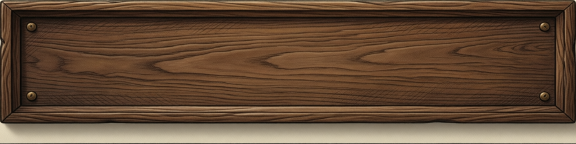
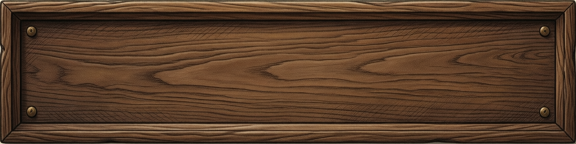
art(missives): trim the plaque's lit strip; quote the plaque row's notes
A table's trim cell narrows a render's crop by what the ground floods
left (the plaque kept a pale strip under its edge). The plaque row's
unquoted comma split it into an extra column for every CSV reader.

diff --git a/assets/flux/install_map_art.py b/assets/flux/install_map_art.py
@@ -332,6 +332,19 @@ def alpha_box(w: int, h: int, rgba: bytearray) -> tuple:
     return (0, 0, w, h) if x1 < 0 else (x0, y0, x1 + 1, y1 + 1)
 
 
+def trim_box(box: tuple, trim: str) -> tuple:
+    """A render's crop narrowed by a table's `trim` cell, "left|top|right|bottom"
+    in source px: what the ground floods left behind that is still ground (the
+    plaque's lit strip under its edge); empty keeps the box."""
+    if not trim.strip():
+        return box
+    l, t, r, b = (int(v) for v in trim.split("|"))
+    x0, y0, x1, y1 = box
+    if x1 - x0 <= l + r or y1 - y0 <= t + b:
+        return box
+    return x0 + l, y0 + t, x1 - r, y1 - b
+
+
 def guarded_intersection(a: tuple, b: tuple, w: int, h: int, label: str = "") -> tuple:
     """The intersection of two (x0, y0, x1, y1) boxes (install_missive's two
     independent ground floods). `alpha_box` degrades to the whole w x h
@@ -469,6 +482,7 @@ def install_missive() -> int:
             a = alpha_box(w, h, flood_ground(w, h, ch, px, shadows=True))
             b = alpha_box(w, h, grow_ground(w, h, ch, px))
             box = guarded_intersection(a, b, w, h, "%s / %s" % (art_id, key))
+            box = trim_box(box, r.get("trim", ""))
             cw, chh, piece = crop_rgba(w, rgba, box)
             small = resize_rgba(cw, chh, piece, tw, th)
         encode_png(dest / ("%s.png" % key), tw, th, 4, bytes(small))

diff --git a/assets/flux/test_install_map_art.py b/assets/flux/test_install_map_art.py
@@ -112,6 +112,12 @@ def test_guarded_intersection_falls_back_to_the_whole_render_when_even_that_is_e
     assert ia.guarded_intersection(a, b, 40, 40) == (0, 0, 40, 40)
 
 
+
+def test_a_trim_cell_narrows_the_crop_and_an_empty_one_keeps_it():
+    assert ia.trim_box((10, 20, 110, 70), "0|0|0|15") == (10, 20, 110, 55)
+    assert ia.trim_box((10, 20, 110, 70), "") == (10, 20, 110, 70)
+    assert ia.trim_box((10, 20, 110, 70), "0|30|0|30") == (10, 20, 110, 70), "a trim that eats the piece is ignored"
+
 if __name__ == "__main__":
     for name, fn in sorted(globals().items()):
         if name.startswith("test_") and callable(fn):
